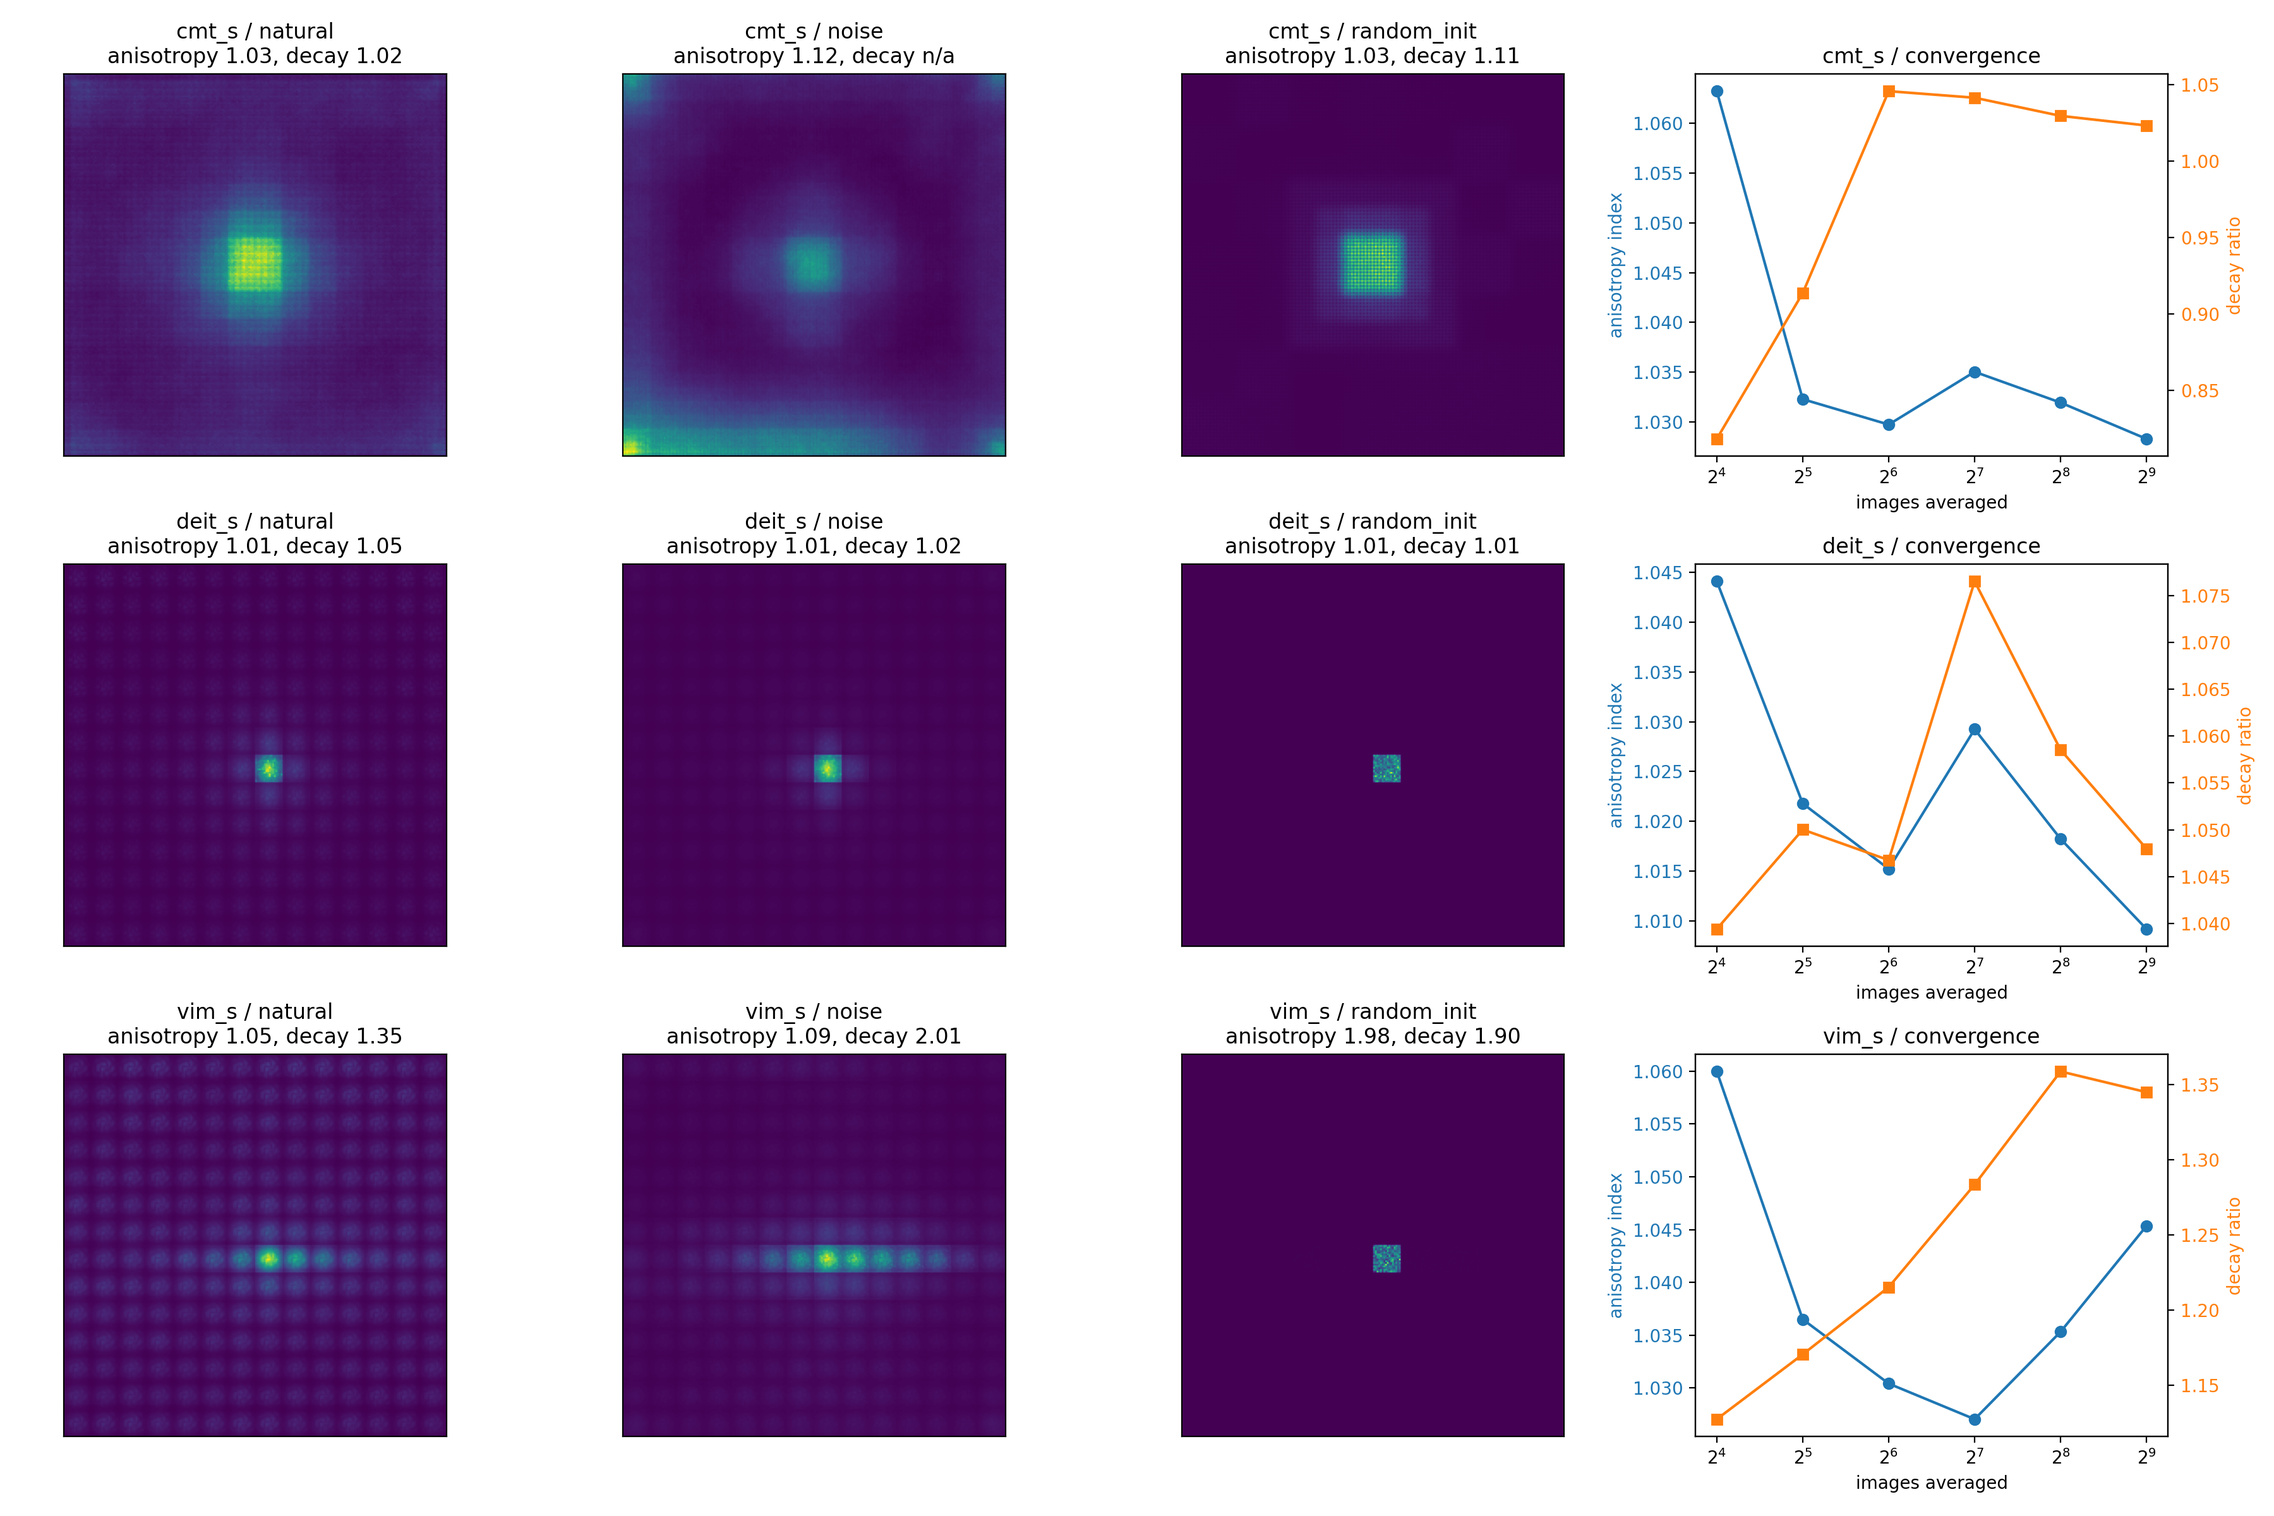
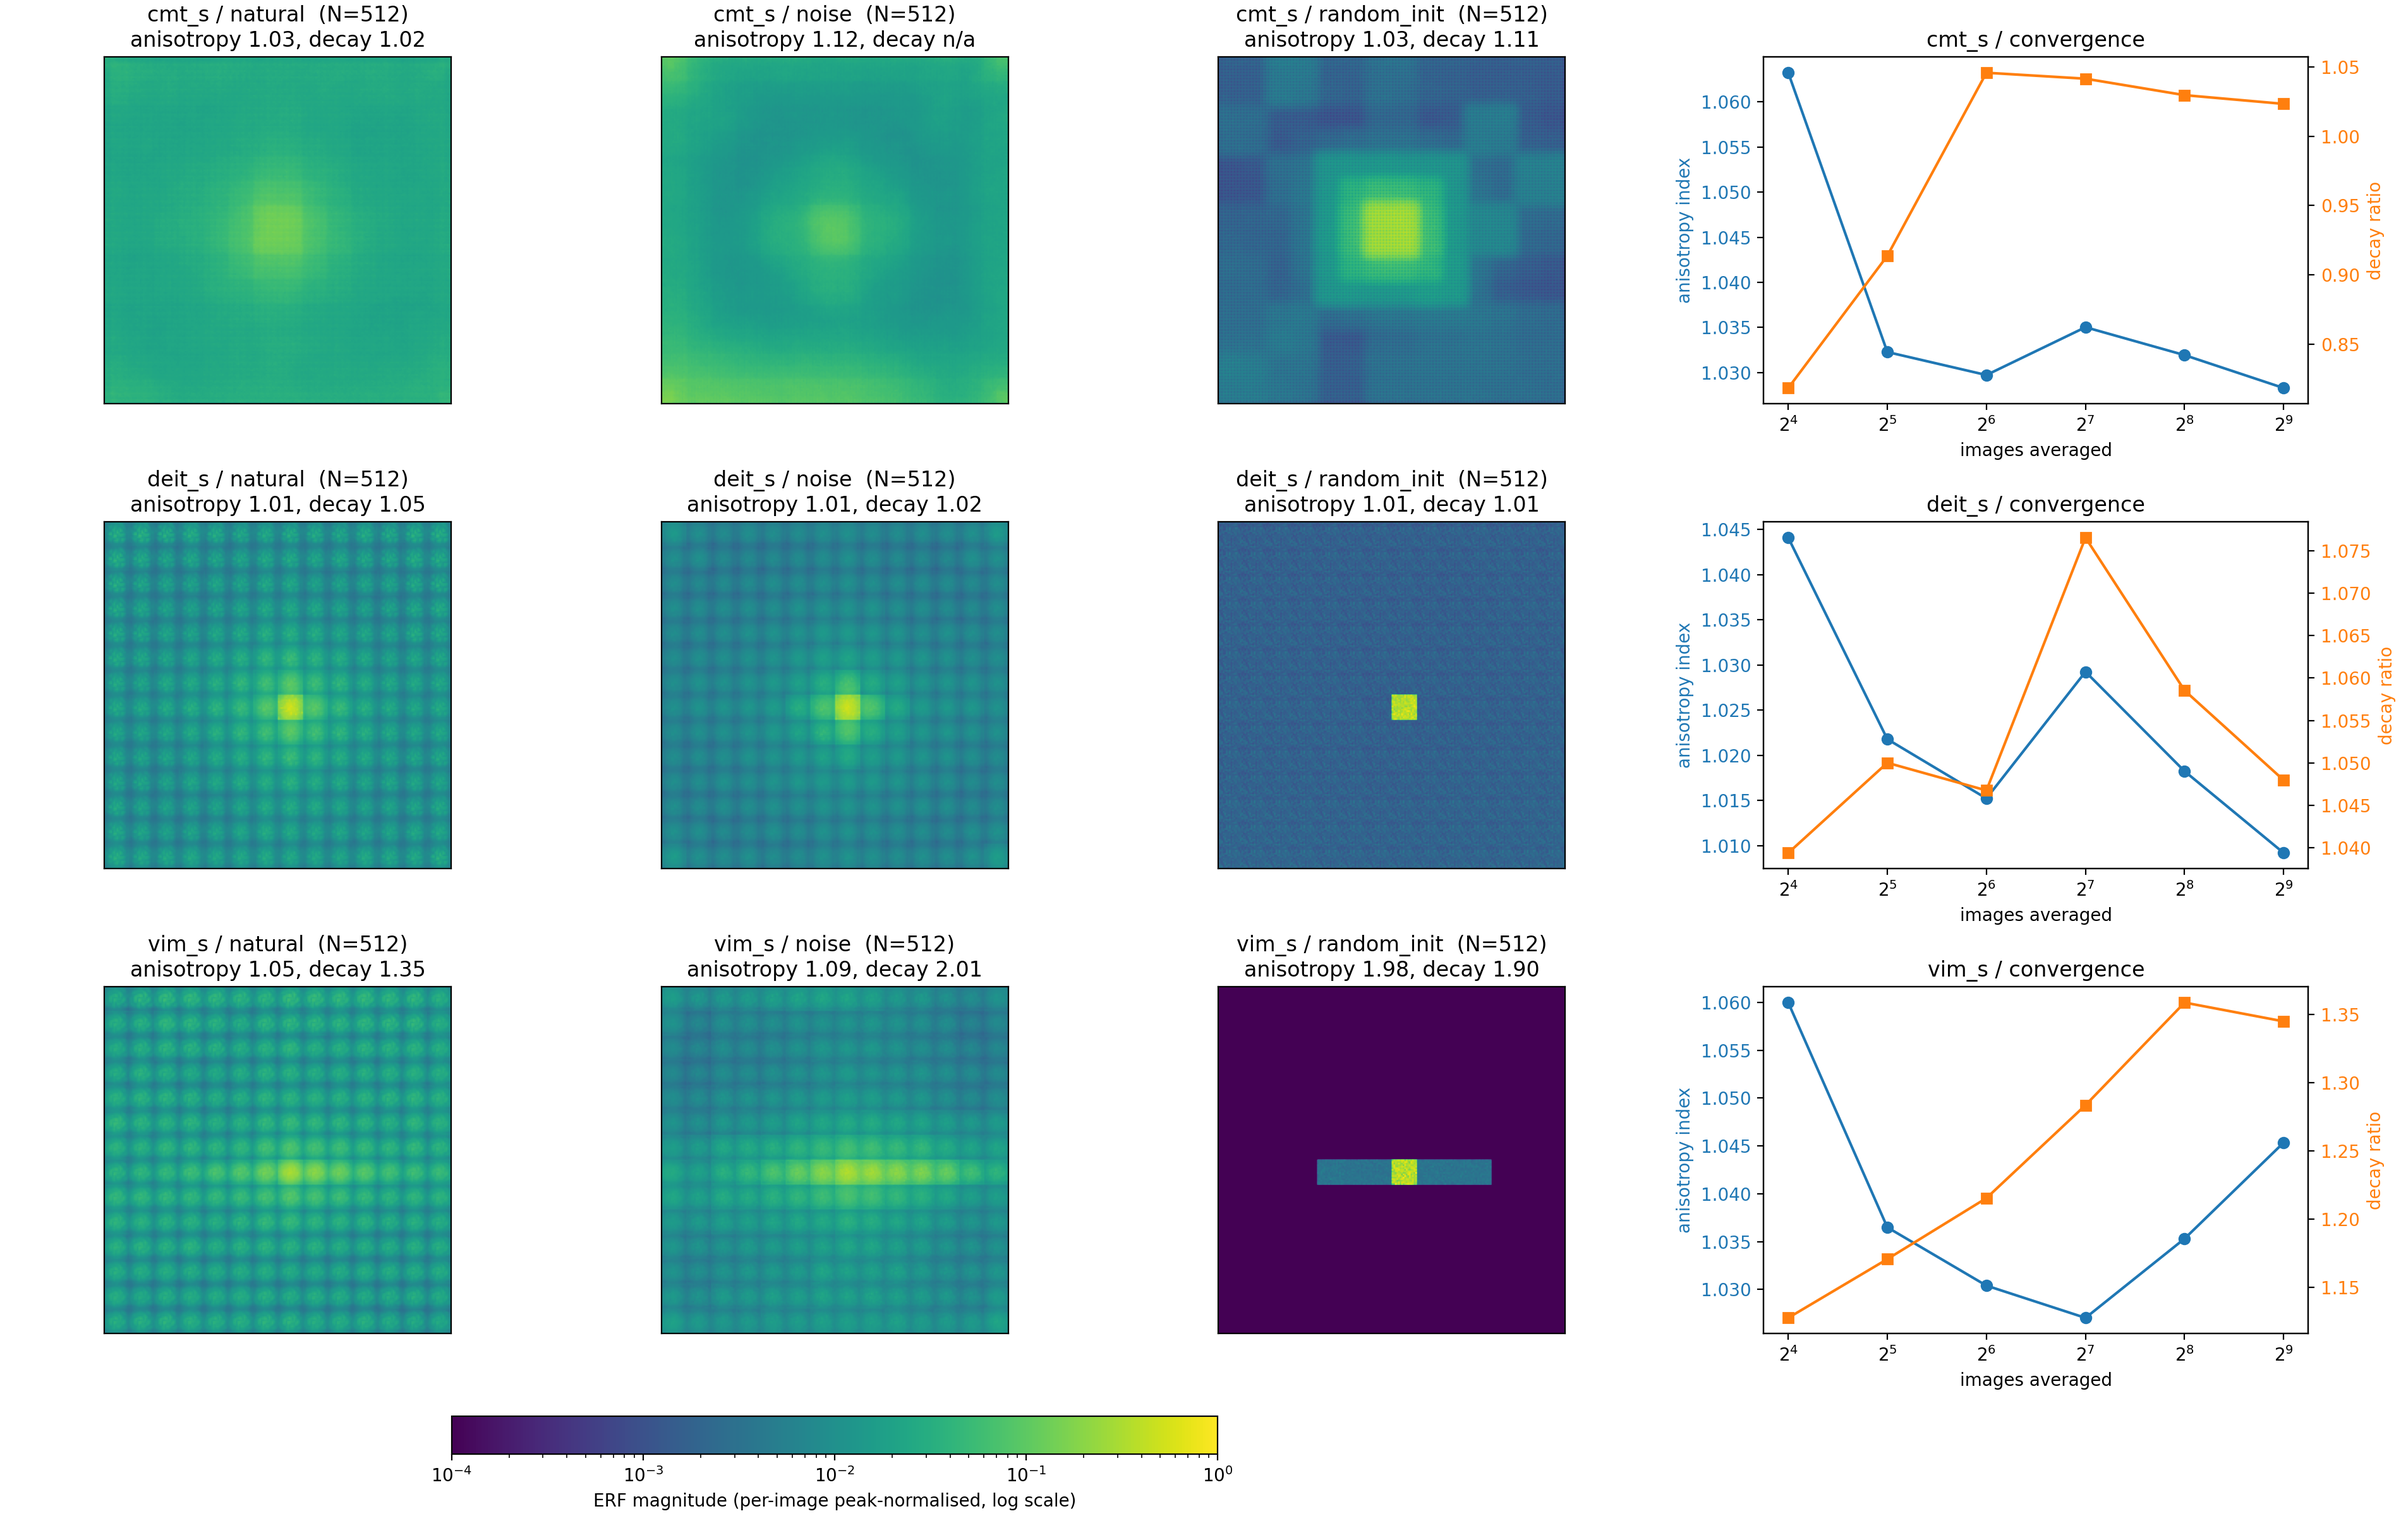
fix: give the ERF heatmaps one shared log scale, a colorbar, and the N
The figure is designated as the blog post's lead image and it was
misrepresenting the data in both directions at once. ax.imshow with
per-panel autoscaling and a linear norm meant each panel's colour was
relative only to that panel's own maximum:

- cmt_s/natural read as a vastly broader receptive field than
  deit_s/natural, when their mass radii are 84.4 and 80.5 -- inside 5%.
- vim_s/random_init rendered as a featureless bright dot. That is the cell
  carrying anisotropy index 1.98 and a principal axis 0.07 degrees off
  horizontal; its values span 1.0 down to 8.8e-29, so a linear scale
  flattens everything but the peak. On the shared log scale the horizontal
  scan-aligned bar is plainly visible, which is the paper's section 3.1
  claim as a picture.

Task 4's review accepted the autoscaling conditional on a caption sentence
being written to explain it. The sentence was never written, so the
condition was never met; this fixes the image instead.

The norm is LogNorm(1e-4, 1.0, clip=True), built once and passed to all
nine panels. The upper bound is not arbitrary: accumulate_erf divides each
image by its own peak before averaging, so 1.0 means the same thing in every
panel. The lower bound is four decades down, below which the map is
numerical floor rather than receptive field. Panel titles now carry N so a
reader can confirm the heatmap and the quoted metrics come from the same
sample size. Switched to constrained_layout so the colorbar gets its own
[…]

diff --git a/figures/e2_plot.py b/figures/e2_plot.py
@@ -12,8 +12,55 @@ matplotlib.use("Agg")
 import matplotlib.pyplot as plt
 import numpy as np
 import pandas as pd
+from matplotlib.colors import LogNorm
 
 CONDITIONS = ("natural", "noise", "random_init")
+
+HEATMAP_VMIN = 1e-4
+"""히트맵 로그 눈금의 아래 끝.
+
+`accumulate_erf`가 이미지마다 peak로 나눈 뒤 평균하므로 모든 맵의 최댓값은 1
+이하이고, 1.0은 "peak gradient를 받는 픽셀"이라는 같은 뜻을 아홉 패널에서
+공유한다. 따라서 위 끝은 1.0으로 고정된다.
+
+아래 끝 1e-4는 peak의 1/10000, 즉 네 자릿수 아래다. 커밋된 맵의 실제 범위는
+그보다 훨씬 넓지만(`vim_s/random_init`은 8.8e-29까지 내려간다) 그 구간은
+수용영역이 아니라 수치 바닥이라, 눈금을 거기까지 늘리면 정작 봐야 할 네 자릿수가
+색 두어 칸으로 압축된다.
+"""
+
+
+def heatmap_norm() -> LogNorm:
+    """아홉 패널이 공유하는 색 눈금.
+
+    패널마다 오토스케일하면(이전 동작) 각 패널의 색이 그 패널의 최댓값에만
+    상대적이라 패널 간 비교가 불가능해진다 — 그런데 이 그림의 요점이 바로 모델
+    간 비교다. 실제로 커밋된 PNG에서 `cmt_s/natural`이 `deit_s/natural`보다
+    훨씬 넓은 수용영역처럼 보였는데, 두 맵의 질량 반경은 84.4 대 80.5로 5%
+    안쪽이었다.
+
+    선형이 아니라 로그인 이유는 반대쪽 실패다: `vim_s/random_init`은 값이 1.0에서
+    1e-28까지 걸쳐 있어 선형 눈금에서는 특징 없는 밝은 점 하나가 된다 — 하필
+    비등방 지수 1.98과 수평에서 0.07° 떨어진 주축을 지고 있는, 이 브랜치에서
+    가장 할 말이 많은 패널이다.
+
+    `clip=True`라 vmin 아래 값은 범위 밖으로 빠지지 않고 바닥 색으로 눌린다.
+    """
+    return LogNorm(vmin=HEATMAP_VMIN, vmax=1.0, clip=True)
+
+
+def panel_title(model: str, condition: str, n: int, anisotropy, decay_ratio) -> str:
+    """히트맵 패널 제목. 평균에 쓴 이미지 수(N)를 반드시 포함한다.
+
+    지표는 `final_metrics`가 고른 가장 큰 N의 값이고 히트맵은 `erf_panel_key`가
+    고른 가장 큰 N의 맵이라 둘은 구조적으로 같은 N이지만, 그 사실이 그림에
+    적혀 있지 않으면 독자가 확인할 방법이 없다.
+    """
+    return (
+        f"{model} / {condition}  (N={n})\n"
+        f"anisotropy {format_metric(anisotropy)}, "
+        f"decay {format_metric(decay_ratio)}"
+    )
 
 # erf_maps.npz 키 형식: "{model}__{condition}__n{n}" (Task 7 개정판, 예:
 # "deit_s__natural__n16"). 안쪽 N 루프가 조건당 맵 하나를 덮어써서 가장 큰
@@ -114,22 +161,31 @@ def plot_erf(csv_path: Path | str, npz_path: Path | str, out_path: Path | str) -
 
     metrics = final_metrics(df)
     models = list(dict.fromkeys(metrics["model"]))
-    fig, axes = plt.subplots(len(models), 4, figsize=(18, 4 * len(models)),
-                             squeeze=False)
+    # constrained_layout이어야 컬러바가 히트맵 세 열에서 제 몫의 자리를 받는다.
+    # tight_layout으로는 컬러바가 나중에 얹혀 수렴 곡선 패널 위를 덮는다.
+    fig, axes = plt.subplots(len(models), 4, figsize=(19, 4 * len(models)),
+                             squeeze=False, constrained_layout=True)
+
+    # 아홉 패널이 하나의 눈금을 공유한다. 인스턴스를 한 번만 만들어 전부에
+    # 넘기는 것이 요점이다 — 패널마다 새로 만들면 값은 같아도 나중에 누가
+    # 한쪽만 바꿀 수 있고, 애초에 오토스케일로 되돌아가기도 쉽다.
+    norm = heatmap_norm()
+    image = None
 
     for row, model in enumerate(models):
         for column, condition in enumerate(CONDITIONS):
             ax = axes[row][column]
             key = erf_panel_key(parsed, model, condition)
             if key is not None:
-                ax.imshow(maps[key], cmap="viridis")
+                image = ax.imshow(maps[key], cmap="viridis", norm=norm)
                 cell = metrics.query("model == @model and condition == @condition")
                 if not cell.empty:
-                    ax.set_title(
-                        f"{model} / {condition}\n"
-                        f"anisotropy {format_metric(cell.iloc[0]['anisotropy'])}, "
-                        f"decay {format_metric(cell.iloc[0]['decay_ratio'])}"
-                    )
+                    panel_n = next(p["n"] for p in parsed if p["key"] == key)
+                    ax.set_title(panel_title(
+                        model, condition, panel_n,
+                        anisotropy=cell.iloc[0]["anisotropy"],
+                        decay_ratio=cell.iloc[0]["decay_ratio"],
+                    ))
             else:
                 ax.text(0.5, 0.5, "not measured", transform=ax.transAxes,
                         ha="center", va="center")
@@ -159,7 +215,19 @@ def plot_erf(csv_path: Path | str, npz_path: Path | str, out_path: Path | str) -
             ax2.set_ylabel("decay ratio", color="tab:orange")
             ax2.tick_params(axis="y", labelcolor="tab:orange")
 
-    fig.tight_layout()
+    if image is not None:
+        # 공유 눈금은 눈금자가 보여야 뜻이 있다. 컬러바가 없으면 두 패널의 같은
+        # 색이 같은 값인지 독자가 확인할 방법이 없다. 히트맵 세 열에만 붙인다 —
+        # 네 번째 열은 수렴 곡선이라 이 눈금과 무관하다.
+        fig.colorbar(
+            image,
+            ax=[axes[row][column]
+                for row in range(len(models)) for column in range(3)],
+            location="bottom",
+            fraction=0.03,
+            pad=0.02,
+            label="ERF magnitude (per-image peak-normalised, log scale)",
+        )
     fig.savefig(out_path, dpi=200)
     plt.close(fig)
     return Path(out_path)

diff --git a/tests/test_e2_plot.py b/tests/test_e2_plot.py
@@ -1,12 +1,17 @@
+import matplotlib.axes
+import matplotlib.figure
 import numpy as np
 import pandas as pd
 import pytest
 
 from figures.e2_plot import (
+    HEATMAP_VMIN,
     check_map_key_format,
     erf_panel_key,
     final_metrics,
     format_metric,
+    heatmap_norm,
+    panel_title,
     parse_map_keys,
     plot_erf,
 )
@@ -94,6 +99,92 @@ def test_format_metric_marks_a_missing_value_as_not_available():
     안 된다 — "n/a"가 이 지표만 없다는 뜻을 분명히 한다."""
     assert format_metric(float("nan")) == "n/a"
     assert format_metric(None) == "n/a"
+
+
+# --- 히트맵 정규화와 패널 제목 ------------------------------------------------
+#
+# 이 그림은 블로그 글의 대표 이미지로 지정돼 있다. 패널마다 따로 오토스케일하는
+# 선형 norm은 두 가지를 동시에 망가뜨렸다: 질량 반경이 5% 안쪽인 cmt_s/natural과
+# deit_s/natural이 전혀 다른 크기로 보였고, 지수 1.98·각도 0.07°를 지고 있는
+# vim_s/random_init은 특징 없는 밝은 점 하나로 뭉갰다.
+
+
+def test_the_normalisation_reveals_the_dynamic_range():
+    """선형이면 안 된다. 커밋된 맵은 값이 여러 자릿수에 걸쳐 있고
+    (vim_s/random_init은 1.0에서 8.8e-29까지) 선형 눈금에서는 피크 근처를 뺀
+    전부가 같은 색으로 뭉개진다. 로그 눈금에서 1e-3은 표시 범위의 25%
+    지점이어야 한다 — 선형이었다면 0.1%다."""
+    norm = heatmap_norm()
+
+    assert norm(1e-3) == pytest.approx(0.25, abs=0.02)
+    assert norm(1.0) == pytest.approx(1.0)
+
+
+def test_the_normalisation_clips_instead_of_dropping_the_far_tail():
+    """vmin 아래 값(vim_s/random_init의 1e-28대 꼬리)은 색을 잃지 않고 바닥
+    색으로 눌려야 한다. clip이 없으면 '범위 밖' 처리로 빠져 패널에 구멍이
+    난다."""
+    norm = heatmap_norm()
+
+    assert norm(HEATMAP_VMIN / 1000) == pytest.approx(0.0)
+
+
+def test_every_heatmap_gets_the_same_normalisation(tmp_path, monkeypatch):
+    """패널마다 오토스케일하면 축이 없는 그림이 된다 — 각 패널의 색이 그
+    패널의 최댓값에만 상대적이라 패널끼리 비교할 수 없는데, 이 그림의 요점은
+    바로 모델 간 비교다. 실제로 커밋된 PNG에서 cmt_s/natural이 deit_s/natural
+    보다 훨씬 넓은 수용영역처럼 보였는데 질량 반경은 84.4 대 80.5, 5% 안쪽이다.
+
+    imshow에 넘어간 norm을 직접 붙잡아 확인한다 — 회귀(norm 인자 제거)를 넣으면
+    None이 잡혀 실패한다."""
+    seen = []
+    original = matplotlib.axes.Axes.imshow
+
+    def spy(self, data, **kwargs):
+        seen.append(kwargs.get("norm"))
+        return original(self, data, **kwargs)
+
+    monkeypatch.setattr(matplotlib.axes.Axes, "imshow", spy)
+    csv, npz = _write_sample(tmp_path)
+
+    plot_erf(csv, npz, tmp_path / "e2.png")
+
+    assert len(seen) == 9
+    assert all(norm is not None for norm in seen), "패널이 자기 스케일로 그려졌다"
+    assert len({id(norm) for norm in seen}) == 1, "패널마다 다른 norm을 썼다"
+
+
+def test_the_figure_carries_a_colorbar(tmp_path, monkeypatch):
+    """공유 눈금은 눈금자가 보여야 뜻이 있다. 컬러바가 없으면 독자가 두 패널의
+    같은 색이 같은 값인지 확인할 방법이 없다."""
+    calls = []
+    original = matplotlib.figure.Figure.colorbar
+
+    def spy(self, *args, **kwargs):
+        calls.append(kwargs)
+        return original(self, *args, **kwargs)
+
+    monkeypatch.setattr(matplotlib.figure.Figure, "colorbar", spy)
+    csv, npz = _write_sample(tmp_path)
+
+    plot_erf(csv, npz, tmp_path / "e2.png")
+
+    assert calls, "컬러바가 없다"
+
+
+def test_the_panel_title_names_the_sample_size():
+    """어느 패널이 몇 장을 평균한 것인지가 제목에 없으면, 지표는 가장 큰 N의
+    값인데 히트맵은 다른 N일 수도 있다는 의심을 독자가 배제할 수 없다."""
+    title = panel_title("vim_s", "random_init", 512, anisotropy=1.98, decay_ratio=1.90)
+
+    assert "N=512" in title
+    assert "vim_s" in title and "random_init" in title
+
+
+def test_the_panel_title_marks_a_missing_metric():
+    title = panel_title("cmt_s", "noise", 512, anisotropy=1.12, decay_ratio=float("nan"))
+
+    assert "n/a" in title
 
 
 # --- npz 키 파싱 — model__condition__nN (Task 7 개정판) ------------------------
